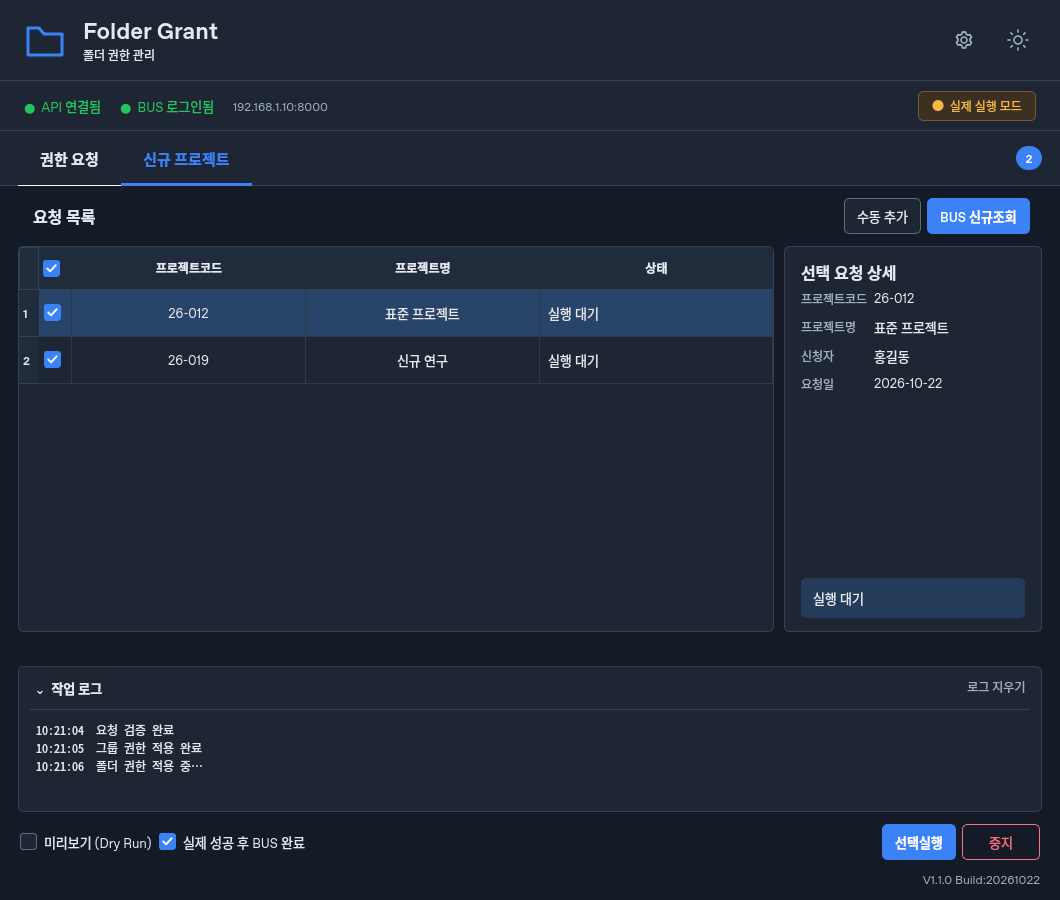
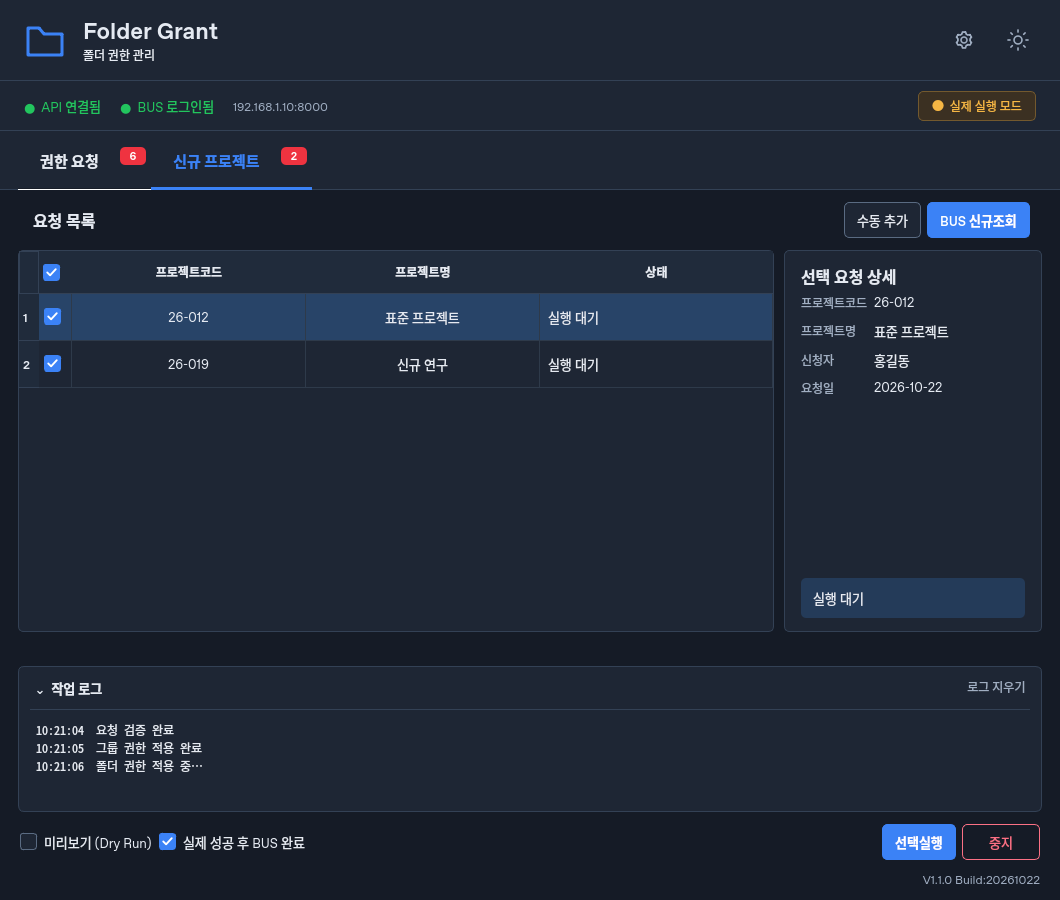
Attach notification badges to individual workspace tabs

diff --git a/Client/tests/test_ui_design.py b/Client/tests/test_ui_design.py
@@ -232,13 +232,22 @@ class DesignTests(unittest.TestCase):
     def test_request_count_badge_is_scoped_and_settings_detail_is_preserved(self):
         w = self.window
         w._on_counts_ready({'신규미완료':7,'진행-부여':2,'진행-제거':3,'종료-부여':4,'종료-제거':1})
-        self.assertEqual(w.request_count_badge.text(),'10')
+        self.assertEqual(w.tab_count_badges[0].text(),'10')
         self.assertFalse(hasattr(w,'badge_notif'))
         self.assertIn('BUS 요청 알림',[action.text() for action in w.settings_button.menu().actions()])
         w.ensure_bus_session_async = lambda purpose,callback:None
         w.tabs.setCurrentIndex(1)
-        self.assertEqual(w.request_count_badge.text(),'7')
+        self.assertEqual(w.tab_count_badges[1].text(),'7')
         w._on_counts_ready({'신규미완료':9})
-        self.assertEqual(w.request_count_badge.text(),'9')
+        self.assertEqual(w.tab_count_badges[1].text(),'9')
         w.tabs.setCurrentIndex(0)
-        self.assertEqual(w.request_count_badge.text(),'0')
+        self.assertEqual(w.tab_count_badges[0].text(),'0')
+
+    def test_count_badges_are_attached_to_each_tab(self):
+        w = self.window
+        self.show()
+        for index,badge in enumerate(w.tab_count_badges):
+            self.assertIs(badge.parent(),w.tabs.tabButton(index,self.m.QTabBar.RightSide))
+            point = badge.mapTo(w.tabs,self.m.QPoint(0,0))
+            self.assertTrue(w.tabs.tabRect(index).contains(point))
+            self.assertLess(point.y(),w.tabs.tabRect(index).center().y())
